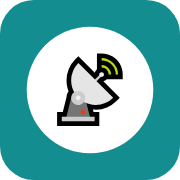
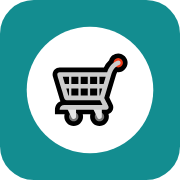
Acquisti v3: l'app Fornitori si chiama Acquisti 🛒 (icone nuove)

Changed region(s): [[0.2778, 0.2778, 0.7222, 0.7222]]

diff --git a/index.html b/index.html
@@ -3,25 +3,25 @@
 <head>
   <meta charset="UTF-8" />
   <meta name="viewport" content="width=device-width, initial-scale=1.0, viewport-fit=cover" />
-  <title>Fornitori · Carpenteria Ticinese</title>
+  <title>Acquisti · Carpenteria Ticinese</title>
   <meta name="robots" content="noindex" />
   <meta name="theme-color" content="#138d90" />
-  <link rel="manifest" href="manifest.json?v=2" />
-  <link rel="icon" type="image/png" sizes="32x32" href="icone/icona-32.png?v=2" />
-  <link rel="apple-touch-icon" href="icone/icona-180.png?v=2" />
-  <meta name="apple-mobile-web-app-title" content="Fornitori" />
+  <link rel="manifest" href="manifest.json?v=3" />
+  <link rel="icon" type="image/png" sizes="32x32" href="icone/icona-32.png?v=3" />
+  <link rel="apple-touch-icon" href="icone/icona-180.png?v=3" />
+  <meta name="apple-mobile-web-app-title" content="Acquisti" />
   <meta name="apple-mobile-web-app-capable" content="yes" />
   <meta name="mobile-web-app-capable" content="yes" />
   <!-- ?v= : forza il browser a riprendere CSS/JS aggiornati. index.html resta in
        cache: dopo ogni caricamento su GitHub si apre con Ctrl+F5. -->
-  <link rel="stylesheet" href="style.css?v=2" />
+  <link rel="stylesheet" href="style.css?v=3" />
 </head>
-<body data-versione="2">
+<body data-versione="3">
 
 <!-- ═══ LOGIN ═══════════════════════════════════════════════════════════════ -->
 <section id="pagina-login" class="pagina-centro" hidden>
   <div class="card-login">
-    <div class="logo">📡 <strong>Fornitori</strong><span>Carpenteria Ticinese</span></div>
+    <div class="logo">🛒 <strong>Acquisti</strong><span>Carpenteria Ticinese</span></div>
     <form id="login-form" autocomplete="on">
       <label for="login-email">Email</label>
       <input id="login-email" type="email" autocomplete="username" required />
@@ -29,7 +29,7 @@
       <input id="login-password" type="password" autocomplete="current-password" required />
       <div id="login-banner" aria-live="polite" style="margin-top:12px"></div>
       <button id="login-btn" type="submit" class="btn btn-primario btn-largo" style="margin-top:8px">Entra</button>
-      <p class="aiuto" style="margin-top:12px">Si entra con gli stessi email e password delle altre app. (Fornitori, ex Radar Fornitori.)</p>
+      <p class="aiuto" style="margin-top:12px">Si entra con gli stessi email e password delle altre app. (Acquisti, ex Radar, ex Fornitori.)</p>
       <p class="aiuto" id="versione-login" style="margin-top:4px"></p>
     </form>
   </div>
@@ -38,8 +38,8 @@
 <!-- ═══ RUOLO NON AMMESSO ═══════════════════════════════════════════════════ -->
 <section id="pagina-negato" class="pagina-centro" hidden>
   <div class="card-login">
-    <div class="logo">📡 <strong>Fornitori</strong><span>Carpenteria Ticinese</span></div>
-    <div class="banner warn">🔒 Fornitori è riservato a titolare e responsabile.</div>
+    <div class="logo">🛒 <strong>Acquisti</strong><span>Carpenteria Ticinese</span></div>
+    <div class="banner warn">🔒 Acquisti è riservato a titolare e responsabile.</div>
     <p id="negato-dettaglio" class="dim"></p>
     <button type="button" class="btn btn-largo" id="negato-esci">🚪 Esci</button>
   </div>
@@ -48,7 +48,7 @@
 <!-- ═══ APP ═════════════════════════════════════════════════════════════════ -->
 <section id="pagina-app" hidden>
   <header id="topbar">
-    <span class="titolo">📡 Fornitori</span><span class="ver" id="versione-topbar"></span>
+    <span class="titolo">🛒 Acquisti</span><span class="ver" id="versione-topbar"></span>
     <div class="utente">
       <span id="topbar-utente"></span>
       <button type="button" class="btn btn-piccolo" id="btn-esci">🚪 Esci</button>
@@ -83,14 +83,14 @@
 <!-- Supabase (versione fissa). SheetJS, pdf.js e Chart.js si caricano solo
      quando servono (vedi caricaLibreria in base.js). -->
 <script src="https://cdn.jsdelivr.net/npm/@supabase/supabase-js@2.45.4/dist/umd/supabase.js"></script>
-<script src="calcolo.js?v=2"></script>
-<script src="base.js?v=2"></script>
-<script src="cerca.js?v=2"></script>
-<script src="fornitori.js?v=2"></script>
-<script src="importa.js?v=2"></script>
-<script src="variazioni.js?v=2"></script>
-<script src="richieste.js?v=2"></script>
-<script src="impostazioni.js?v=2"></script>
-<script src="avvio.js?v=2"></script>
+<script src="calcolo.js?v=3"></script>
+<script src="base.js?v=3"></script>
+<script src="cerca.js?v=3"></script>
+<script src="fornitori.js?v=3"></script>
+<script src="importa.js?v=3"></script>
+<script src="variazioni.js?v=3"></script>
+<script src="richieste.js?v=3"></script>
+<script src="impostazioni.js?v=3"></script>
+<script src="avvio.js?v=3"></script>
 </body>
 </html>

diff --git a/impostazioni.js b/impostazioni.js
@@ -143,7 +143,7 @@ async function spazio() {
     (pct > 80 ? banner('warn', 'Lo spazio sta finendo: oltre 1 GB serve il piano a pagamento di Supabase.') : '') +
     '<div class="tabella-wrap" style="margin-top:10px"><table class="tab"><thead><tr><th>Bucket</th><th class="num">File</th><th class="num">Spazio</th></tr></thead><tbody>' +
     righe.map(function (x) {
-      return '<tr><td>' + esc(x.bucket) + (/^rf-/.test(x.bucket) ? ' ' + tag('info', '📡', 'Fornitori') : '') + '</td><td class="num">' + x.file + '</td><td class="num">' + mb(x.byte) + '</td></tr>'
+      return '<tr><td>' + esc(x.bucket) + (/^rf-/.test(x.bucket) ? ' ' + tag('info', '🛒', 'Acquisti') : '') + '</td><td class="num">' + x.file + '</td><td class="num">' + mb(x.byte) + '</td></tr>'
     }).join('') + '</tbody></table></div>')
   el('im-spazio').classList.remove('caricamento')
 }

diff --git a/base.js b/base.js
@@ -1,4 +1,4 @@
-// Fornitori (ex Radar Fornitori) — base.js
+// Acquisti (ex Radar, ex Fornitori) — base.js
 // Configurazione, login, ruolo, caricamento dei dati, attrezzi comuni
 // (finestre, avvisi, menu con ricerca, Worker, foto, file).
 //
@@ -14,7 +14,7 @@ var URL_RUBRICA  = 'https://carpenteria-ticinese.github.io/CT-rubrica/'
 var BUCKET_FOTO  = 'rf-foto'
 var BUCKET_DOC   = 'rf-documenti'
 var LIMITE_FILE_MB = 10
-var APP_VERSIONE = 2
+var APP_VERSIONE = 3
 
 var LIBRERIE = {
   xlsx:  'https://cdnjs.cloudflare.com/ajax/libs/xlsx/0.18.5/xlsx.full.min.js',

diff --git a/fornitori.js b/fornitori.js
@@ -243,7 +243,7 @@ async function disegnaFornitore(param) {
       '</div>' : banner('warn', 'Il contatto della Rubrica non si legge (permessi o contatto archiviato).')) +
     '</div>' +
 
-    '<div class="scheda"><h2>📡 Dati d\'acquisto</h2>' +
+    '<div class="scheda"><h2>🛒 Dati d\'acquisto</h2>' +
       '<fieldset style="border:0;padding:0;margin:0"><legend style="font-weight:600">Attività (più di una se serve)</legend>' +
         '<div class="gruppo-btn">' + servizi.map(function (c) {
           var on = r && (r.attivita || []).indexOf(c.nome) >= 0

diff --git a/style.css b/style.css
@@ -1,4 +1,4 @@
-/* Fornitori (ex Radar Fornitori) — Carpenteria Ticinese | Stile
+/* Acquisti (ex Radar, ex Fornitori) — Carpenteria Ticinese | Stile
    Stessa tavolozza di Rubrica e Pre-contabilità.
    Regole: testo minimo 16 px, usabile a 360 px, icone sempre con testo,
    mai un significato dato solo dal colore, azione principale in basso a destra. */

diff --git a/avvio.js b/avvio.js
@@ -1,5 +1,5 @@
-// Fornitori (ex Radar Fornitori) — avvio.js
-// Collega i pulsanti fissi e decide la prima pagina (login o Fornitori).
+// Acquisti (ex Radar, ex Fornitori) — avvio.js
+// Collega i pulsanti fissi e decide la prima pagina (login o Acquisti).
 
 'use strict'
 
